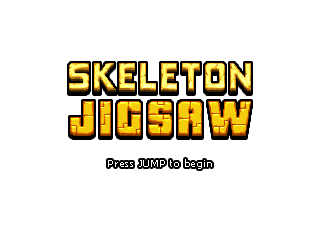
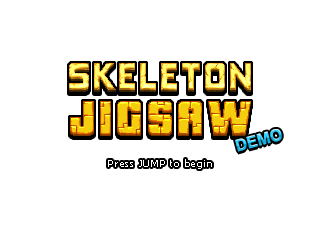
Demo badge on the title screen, lava shooter and gameover screen

Changed region(s): [[0.7188, 0.525, 0.9062, 0.6417]]

diff --git a/lib/game/levels/gameover.js b/lib/game/levels/gameover.js
@@ -1,6 +1,6 @@
 ig.module( 'game.levels.gameover' )
-.requires('impact.image','game.entities.vignettegameover')
+.requires('impact.image')
 .defines(function(){
-LevelGameover=/*JSON[*/{"entities":[{"type":"EntityVignettegameover","x":0,"y":-4}],"layer":[{"name":"collision","width":40,"height":30,"linkWithCollision":false,"visible":0,"tilesetName":"","repeat":false,"preRender":false,"distance":1,"tilesize":8,"foreground":false,"data":[[0,0,0,0,0,0,0,0,0,0,0,0,0,0,0,0,0,0,0,0,0,0,0,0,0,0,0,0,0,0,0,0,0,0,0,0,0,0,1,1],[0,0,0,0,0,0,0,0,0,0,0,0,0,0,0,0,0,0,0,0,0,0,0,0,0,0,0,0,0,0,0,0,0,0,0,0,0,0,1,1],[0,0,0,0,0,0,0,0,0,0,0,0,0,0,0,0,0,0,0,0,0,0,0,0,0,0,0,0,0,0,0,0,0,0,1,1,1,1,1,1],[0,0,0,0,0,0,0,0,0,0,0,0,0,0,0,0,0,0,0,0,0,0,0,0,0,0,0,0,0,0,0,0,0,0,1,1,1,1,1,1],[0,0,0,0,0,0,0,0,0,0,0,0,0,0,0,0,0,0,0,0,0,0,0,0,0,0,0,0,0,0,0,0,0,0,1,1,1,1,1,1],[0,0,0,0,0,0,0,0,0,0,0,0,0,0,0,0,0,0,0,0,0,0,0,0,0,0,0,0,0,0,0,0,0,0,0,0,0,1,1,1],[0,0,0,0,0,0,0,0,0,0,0,0,0,0,0,0,0,0,0,0,0,0,0,0,0,0,0,0,0,0,0,0,0,0,0,0,0,0,1,1],[0,0,0,0,0,0,0,0,0,0,0,0,0,0,0,0,0,0,0,0,0,0,0,0,0,0,0,0,0,0,0,0,0,0,0,0,0,0,1,1],[0,0,0,0,0,0,0,0,0,0,0,0,0,0,0,0,0,0,0,0,0,0,0,0,0,0,0,0,0,0,0,0,0,0,0,0,0,0,1,1],[0,0,0,0,0,0,0,0,0,0,0,0,0,0,0,0,0,0,0,0,0,0,0,0,0,0,0,0,0,0,0,0,0,0,0,0,0,0,1,1],[0,0,0,0,0,0,0,0,0,0,0,0,0,0,0,0,0,0,0,0,0,0,0,0,0,0,0,0,0,0,0,0,0,0,0,0,0,0,1,1],[0,0,0,0,0,0,0,0,0,0,0,0,0,0,0,0,0,0,0,0,0,0,0,0,0,0,0,0,0,0,0,0,0,0,0,0,0,0,0,1],[0,0,0,0,0,0,0,0,0,0,0,0,0,0,0,0,0,0,0,0,0,0,0,0,0,0,0,0,0,0,0,0,0,0,0,0,0,0,0,1],[0,0,0,0,0,0,0,0,0,0,0,0,0,0,0,0,0,0,0,0,0,0,0,0,0,0,0,0,0,0,0,0,0,0,0,0,0,0,1,1],[0,1,1,1,1,0,0,0,0,0,0,0,0,0,0,0,0,0,0,0,0,0,0,0,0,0,0,0,0,0,0,0,0,0,0,0,0,0,1,1],[0,1,1,1,1,0,0,0,0,0,0,0,0,0,0,0,0,0,0,0,0,0,0,0,0,0,0,0,0,0,0,0,0,0,0,0,0,0,1,1],[0,1,1,1,1,0,0,0,0,0,0,0,0,0,0,0,0,0,0,0,0,0,0,0,0,0,0,0,0,0,0,0,0,0,0,0,0,0,1,1],[1,1,1,1,1,0,0,0,0,0,0,0,0,0,0,0,0,0,0,0,0,0,0,0,0,0,0,0,0,0,0,0,0,0,0,0,0,0,1,1],[1,1,1,1,1,0,0,0,0,0,0,0,0,0,0,0,0,0,0,0,0,0,0,0,0,0,0,0,0,0,0,0,0,0,0,0,0,0,1,1],[1,1,1,1,1,1,0,0,0,0,0,0,0,0,0,0,0,0,0,0,0,0,0,0,0,0,0,0,0,0,0,0,0,0,0,0,0,0,1,1],[1,1,1,1,1,1,0,0,0,0,0,0,0,0,0,0,0,0,0,0,0,0,0,0,0,0,0,0,0,0,0,0,0,0,0,0,0,0,0,1],[1,1,1,1,1,1,1,0,0,0,0,0,0,0,0,0,0,0,0,0,0,0,0,0,0,0,0,0,0,0,0,0,0,0,0,0,0,0,0,1],[1,1,1,1,1,1,1,1,0,0,0,0,0,0,0,0,0,0,0,0,0,0,0,0,0,0,0,0,0,0,0,0,0,0,0,0,0,0,0,1],[1,1,1,1,1,1,1,1,0,0,0,0,0,0,0,0,0,0,0,0,0,0,0,0,0,0,0,0,0,0,0,0,0,0,0,0,0,0,0,1],[1,1,1,1,1,1,1,1,1,0,0,1,0,0,0,0,0,0,0,0,0,0,0,0,0,0,0,0,0,0,0,0,0,0,0,0,0,0,0,1],[1,1,1,1,1,1,1,1,1,1,0,1,1,1,0,0,0,0,0,0,0,0,0,0,0,0,0,0,0,0,0,0,0,0,0,0,0,0,0,1],[1,1,1,1,1,1,1,1,1,1,1,1,1,1,1,1,1,1,1,1,1,1,1,1,1,1,1,1,1,1,1,1,1,1,1,1,1,1,1,1],[1,1,1,1,1,1,1,1,1,1,1,1,1,1,1,1,1,1,1,1,1,1,1,1,1,1,1,1,1,1,1,1,1,1,1,1,1,1,1,1],[1,1,1,1,1,1,1,1,1,1,1,1,1,1,1,1,1,1,1,1,1,1,1,1,1,1,1,1,1,1,1,1,1,1,1,1,1,1,1,1],[1,1,1,1,1,1,1,1,1,1,1,1,1,1,1,1,1,1,1,1,1,1,1,1,1,1,1,1,1,1,1,1,1,1,1,1,1,1,1,1]]},{"name":"vignette","width":40,"height":30,"linkWithCollision":false,"visible":1,"tilesetName":"media/vignette.png","repeat":false,"preRender":false,"distance":"1","tilesize":8,"foreground":true,"data":[[1,2,3,4,5,6,7,8,9,10,11,12,13,14,15,16,17,18,19,20,21,22,23,24,25,26,27,28,29,30,31,32,33,34,35,36,37,38,39,40],[41,42,43,44,45,46,47,48,49,50,51,52,53,54,55,56,57,58,59,60,61,62,63,64,65,66,67,68,69,70,71,72,73,74,75,76,77,78,79,80],[81,82,83,84,85,86,87,88,89,90,91,92,93,94,95,96,97,98,99,100,101,102,103,104,105,106,107,108,109,110,111,112,113,114,115,116,117,118,119,120],[121,122,123,124,125,126,127,128,129,130,131,132,133,134,135,136,137,138,139,140,141,142,143,144,145,146,147,148,149,150,151,152,153,154,155,156,157,158,159,160],[161,162,163,164,165,166,167,168,169,170,171,172,173,174,175,176,177,178,179,180,181,182,183,184,185,186,187,188,189,190,191,192,193,194,195,196,197,198,199,200],[201,202,203,204,205,206,207,208,209,210,211,212,213,214,215,216,217,218,219,220,221,222,223,224,225,226,227,228,229,230,231,232,233,234,235,236,237,238,239,240],[241,242,243,244,245,246,247,248,249,250,251,252,253,254,255,256,257,258,259,260,261,262,263,264,265,266,267,268,269,270,271,272,273,274,275,276,277,278,279,280],[281,282,283,284,285,286,287,288,289,290,291,292,293,294,295,296,297,298,299,300,301,302,303,304,305,306,307,308,309,310,311,312,313,314,315,316,317,318,319,320],[321,322,323,324,325,326,327,328,329,330,331,332,333,334,335,336,337,338,339,340,341,342,343,344,345,346,347,348,349,350,351,352,353,354,355,356,357,358,359,360],[361,362,363,364,365,366,367,368,369,370,371,372,373,374,375,376,377,378,379,380,381,382,383,384,385,386,387,388,389,390,391,392,393,394,395,396,397,398,399,400],[401,402,403,404,405,406,407,408,409,410,411,412,413,414,415,416,417,418,419,420,421,422,423,424,425,426,427,428,429,430,431,432,433,434,435,436,437,438,439,440],[441,442,443,444,445,446,447,448,449,450,451,452,453,454,455,456,457,458,459,460,461,462,463,464,465,466,467,468,469,470,471,472,473,474,475,476,477,478,479,480],[481,482,483,484,485,486,487,488,489,490,491,492,493,494,495,496,497,498,499,500,501,502,503,504,505,506,507,508,509,510,511,512,513,514,515,516,517,518,519,520],[521,522,523,524,525,526,527,528,529,530,531,532,533,534,535,536,537,538,539,540,541,542,543,544,545,546,547,548,549,550,551,552,553,554,555,556,557,558,559,560],[561,562,563,564,565,566,567,568,569,570,571,572,573,574,575,576,577,578,579,580,581,582,583,584,585,586,587,588,589,590,591,592,593,594,595,596,597,598,599,600],[601,602,603,604,605,606,607,608,609,610,611,612,613,614,615,616,617,618,619,620,621,622,623,624,625,626,627,628,629,630,631,632,633,634,635,636,637,638,639,640],[641,642,643,644,645,646,647,648,649,650,651,652,653,654,655,656,657,658,659,660,661,662,663,664,665,666,667,668,669,670,671,672,673,674,675,676,677,678,679,680],[681,682,683,684,685,686,687,688,689,690,691,692,693,694,695,696,697,698,699,700,701,702,703,704,705,706,707,708,709,710,711,712,713,714,715,716,717,718,719,720],[721,722,723,724,725,726,727,728,729,730,731,732,733,734,735,736,737,738,739,740,741,742,743,744,745,746,747,748,749,750,751,752,753,754,755,756,757,758,759,760],[761,762,763,764,765,766,767,768,769,770,771,772,773,774,775,776,777,778,779,780,781,782,783,784,785,786,787,788,789,790,791,792,793,794,795,796,797,798,799,800],[801,802,803,804,805,806,807,808,809,810,811,812,813,814,815,816,817,818,819,820,821,822,823,824,825,826,827,828,829,830,831,832,833,834,835,836,837,838,839,840],[841,842,843,844,845,846,847,848,849,850,851,852,853,854,855,856,857,858,859,860,861,862,863,864,865,866,867,868,869,870,871,872,873,874,875,876,877,878,879,880],[881,882,883,884,885,886,887,888,889,890,891,892,893,894,895,896,897,898,899,900,901,902,903,904,905,906,907,908,909,910,911,912,913,914,915,916,917,918,919,920],[921,922,923,924,925,926,927,928,929,930,931,932,933,934,935,936,937,938,939,940,941,942,943,944,945,946,947,948,949,950,951,952,953,954,955,956,957,958,959,960],[961,962,963,964,965,966,967,968,969,970,971,972,973,974,975,976,977,978,979,980,981,982,983,984,985,986,987,988,989,990,991,992,993,994,995,996,997,998,999,1000],[1001,1002,1003,1004,1005,1006,1007,1008,1009,1010,1011,1012,1013,1014,1015,1016,1017,1018,1019,1020,1021,1022,1023,1024,1025,1026,1027,1028,1029,1030,1031,1032,1033,1034,1035,1036,1037,1038,1039,1040],[1041,1042,1043,1044,1045,1046,1047,1048,1049,1050,1051,1052,1053,1054,1055,1056,1057,1058,1059,1060,1061,1062,1063,1064,1065,1066,1067,1068,1069,1070,1071,1072,1073,1074,1075,1076,1077,1078,1079,1080],[1081,1082,1083,1084,1085,1086,1087,1088,1089,1090,1091,1092,1093,1094,1095,1096,1097,1098,1099,1100,1101,1102,1103,1104,1105,1106,1107,1108,1109,1110,1111,1112,1113,1114,1115,1116,1117,1118,1119,1120],[1121,1122,1123,1124,1125,1126,1127,1128,1129,1130,1131,1132,1133,1134,1135,1136,1137,1138,1139,1140,1141,1142,1143,1144,1145,1146,1147,1148,1149,1150,1151,1152,1153,1154,1155,1156,1157,1158,1159,1160],[1161,1162,1163,1164,1165,1166,1167,1168,1169,1170,1171,1172,1173,1174,1175,1176,1177,1178,1179,1180,1181,1182,1183,1184,1185,1186,1187,1188,1189,1190,1191,1192,1193,1194,1195,1196,1197,1198,1199,1200]]}]}/*]JSON*/;
-LevelGameoverResources=[new ig.Image('media/vignette.png')];
+LevelGameover=/*JSON[*/{"entities":[],"layer":[{"name":"gameover","width":40,"height":30,"linkWithCollision":false,"visible":1,"tilesetName":"media/game-over.png","repeat":false,"preRender":false,"distance":"1","tilesize":8,"foreground":false,"data":[[1,2,3,4,5,6,7,8,9,10,11,12,13,14,15,16,17,18,19,20,21,22,23,24,25,26,27,28,29,30,31,32,33,34,35,36,37,38,39,40],[41,42,43,44,45,46,47,48,49,50,51,52,53,54,55,56,57,58,59,60,61,62,63,64,65,66,67,68,69,70,71,72,73,74,75,76,77,78,79,80],[81,82,83,84,85,86,87,88,89,90,91,92,93,94,95,96,97,98,99,100,101,102,103,104,105,106,107,108,109,110,111,112,113,114,115,116,117,118,119,120],[121,122,123,124,125,126,127,128,129,130,131,132,133,134,135,136,137,138,139,140,141,142,143,144,145,146,147,148,149,150,151,152,153,154,155,156,157,158,159,160],[161,162,163,164,165,166,167,168,169,170,171,172,173,174,175,176,177,178,179,180,181,182,183,184,185,186,187,188,189,190,191,192,193,194,195,196,197,198,199,200],[201,202,203,204,205,206,207,208,209,210,211,212,213,214,215,216,217,218,219,220,221,222,223,224,225,226,227,228,229,230,231,232,233,234,235,236,237,238,239,240],[241,242,243,244,245,246,247,248,249,250,251,252,253,254,255,256,257,258,259,260,261,262,263,264,265,266,267,268,269,270,271,272,273,274,275,276,277,278,279,280],[281,282,283,284,285,286,287,288,289,290,291,292,293,294,295,296,297,298,299,300,301,302,303,304,305,306,307,308,309,310,311,312,313,314,315,316,317,318,319,320],[321,322,323,324,325,326,327,328,329,330,331,332,333,334,335,336,337,338,339,340,341,342,343,344,345,346,347,348,349,350,351,352,353,354,355,356,357,358,359,360],[361,362,363,364,365,366,367,368,369,370,371,372,373,374,375,376,377,378,379,380,381,382,383,384,385,386,387,388,389,390,391,392,393,394,395,396,397,398,399,400],[401,402,403,404,405,406,407,408,409,410,411,412,413,414,415,416,417,418,419,420,421,422,423,424,425,426,427,428,429,430,431,432,433,434,435,436,437,438,439,440],[441,442,443,444,445,446,447,448,449,450,451,452,453,454,455,456,457,458,459,460,461,462,463,464,465,466,467,468,469,470,471,472,473,474,475,476,477,478,479,480],[481,482,483,484,485,486,487,488,489,490,491,492,493,494,495,496,497,498,499,500,501,502,503,504,505,506,507,508,509,510,511,512,513,514,515,516,517,518,519,520],[521,522,523,524,525,526,527,528,529,530,531,532,533,534,535,536,537,538,539,540,541,542,543,544,545,546,547,548,549,550,551,552,553,554,555,556,557,558,559,560],[561,562,563,564,565,566,567,568,569,570,571,572,573,574,575,576,577,578,579,580,581,582,583,584,585,586,587,588,589,590,591,592,593,594,595,596,597,598,599,600],[601,602,603,604,605,606,607,608,609,610,611,612,613,614,615,616,617,618,619,620,621,622,623,624,625,626,627,628,629,630,631,632,633,634,635,636,637,638,639,640],[641,642,643,644,645,646,647,648,649,650,651,652,653,654,655,656,657,658,659,660,661,662,663,664,665,666,667,668,669,670,671,672,673,674,675,676,677,678,679,680],[681,682,683,684,685,686,687,688,689,690,691,692,693,694,695,696,697,698,699,700,701,702,703,704,705,706,707,708,709,710,711,712,713,714,715,716,717,718,719,720],[721,722,723,724,725,726,727,728,729,730,731,732,733,734,735,736,737,738,739,740,741,742,743,744,745,746,747,748,749,750,751,752,753,754,755,756,757,758,759,760],[761,762,763,764,765,766,767,768,769,770,771,772,773,774,775,776,777,778,779,780,781,782,783,784,785,786,787,788,789,790,791,792,793,794,795,796,797,798,799,800],[801,802,803,804,805,806,807,808,809,810,811,812,813,814,815,816,817,818,819,820,821,822,823,824,825,826,827,828,829,830,831,832,833,834,835,836,837,838,839,840],[841,842,843,844,845,846,847,848,849,850,851,852,853,854,855,856,857,858,859,860,861,862,863,864,865,866,867,868,869,870,871,872,873,874,875,876,877,878,879,880],[881,882,883,884,885,886,887,888,889,890,891,892,893,894,895,896,897,898,899,900,901,902,903,904,905,906,907,908,909,910,911,912,913,914,915,916,917,918,919,920],[921,922,923,924,925,926,927,928,929,930,931,932,933,934,935,936,937,938,939,940,941,942,943,944,945,946,947,948,949,950,951,952,953,954,955,956,957,958,959,960],[961,962,963,964,965,966,967,968,969,970,971,972,973,974,975,976,977,978,979,980,981,982,983,984,985,986,987,988,989,990,991,992,993,994,995,996,997,998,999,1000],[1001,1002,1003,1004,1005,1006,1007,1008,1009,1010,1011,1012,1013,1014,1015,1016,1017,1018,1019,1020,1021,1022,1023,1024,1025,1026,1027,1028,1029,1030,1031,1032,1033,1034,1035,1036,1037,1038,1039,1040],[1041,1042,1043,1044,1045,1046,1047,1048,1049,1050,1051,1052,1053,1054,1055,1056,1057,1058,1059,1060,1061,1062,1063,1064,1065,1066,1067,1068,1069,1070,1071,1072,1073,1074,1075,1076,1077,1078,1079,1080],[1081,1082,1083,1084,1085,1086,1087,1088,1089,1090,1091,1092,1093,1094,1095,1096,1097,1098,1099,1100,1101,1102,1103,1104,1105,1106,1107,1108,1109,1110,1111,1112,1113,1114,1115,1116,1117,1118,1119,1120],[1121,1122,1123,1124,1125,1126,1127,1128,1129,1130,1131,1132,1133,1134,1135,1136,1137,1138,1139,1140,1141,1142,1143,1144,1145,1146,1147,1148,1149,1150,1151,1152,1153,1154,1155,1156,1157,1158,1159,1160],[1161,1162,1163,1164,1165,1166,1167,1168,1169,1170,1171,1172,1173,1174,1175,1176,1177,1178,1179,1180,1181,1182,1183,1184,1185,1186,1187,1188,1189,1190,1191,1192,1193,1194,1195,1196,1197,1198,1199,1200]]}]}/*]JSON*/;
+LevelGameoverResources=[new ig.Image('media/game-over.png')];
 });
